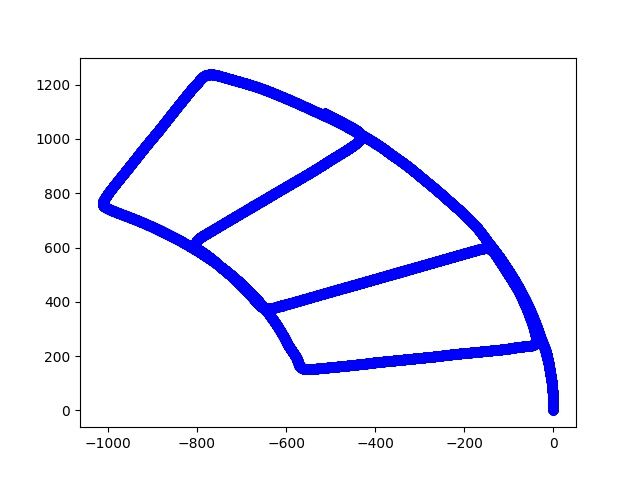
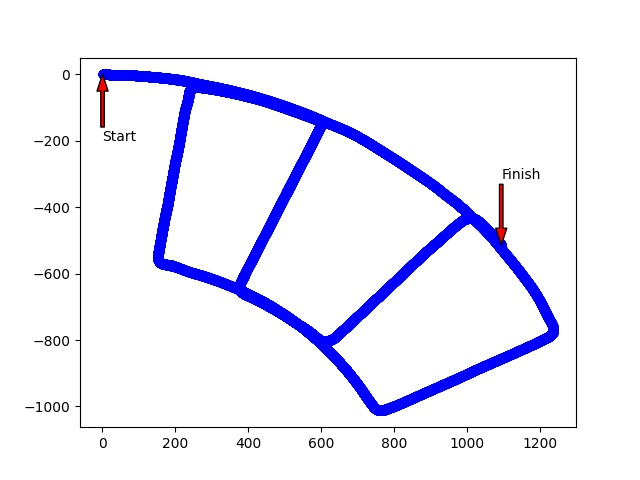
Particle Filter SLAM

diff --git a/code/dead_reckon.py b/code/dead_reckon.py
@@ -44,14 +44,14 @@ def slam():
     trajectory = [[], []]
     print(trajectory[0], trajectory[1])
     mu = cp.zeros(3) #Initial hypothesis
-    for count in tqdm(range(0,len(encoder_time)-1)):
+    for count in tqdm(range(2,len(encoder_time),2)):
         
-        t_p_encoder = encoder_time[count]
-        t_n_encoder = encoder_time[count+1]
+        t_p_encoder = encoder_time[count - 2]
+        t_n_encoder = encoder_time[count]
         t_n_fog = cp.asarray(np.abs(t_n_encoder - fog_time).argmin())
         t_p_fog = cp.asarray(np.abs(t_p_encoder - fog_time).argmin())
-        zl_encoder = encoder_data[count+1][0] - encoder_data[count][0] 
-        zr_encoder = encoder_data[count+1][1] - encoder_data[count][1] 
+        zl_encoder = encoder_data[count][0] - encoder_data[count-2][0] 
+        zr_encoder = encoder_data[count][1] - encoder_data[count-2][1] 
         tau = t_n_encoder - t_p_encoder
         # print(f"tau : {tau}")
         vl = cp.pi * dl * zl_encoder / (4096 * tau)
@@ -71,7 +71,12 @@ def slam():
     show_trajectory(trajectory)
 
 def show_trajectory(trajectory):
-    plt.scatter(trajectory[1][1:], trajectory[0][1:], c = 'b') 
+    arrow_properties = dict(
+            facecolor="red", width=2.5,
+            headwidth=8)
+    plt.scatter(trajectory[0][1:], trajectory[1][1:], c = 'b') 
+    plt.annotate('Start',xy = (trajectory[0][1], trajectory[1][1]), xytext=(trajectory[0][1], trajectory[1][1] - 200), arrowprops = arrow_properties)
+    plt.annotate('Finish',xy = (trajectory[0][-1], trajectory[1][-1]), xytext=(trajectory[0][-1], trajectory[1][-1] + 200), arrowprops = arrow_properties)
     plt.savefig('dead_reckon.jpg', format = 'jpg')
     plt.show(block = True)
 
